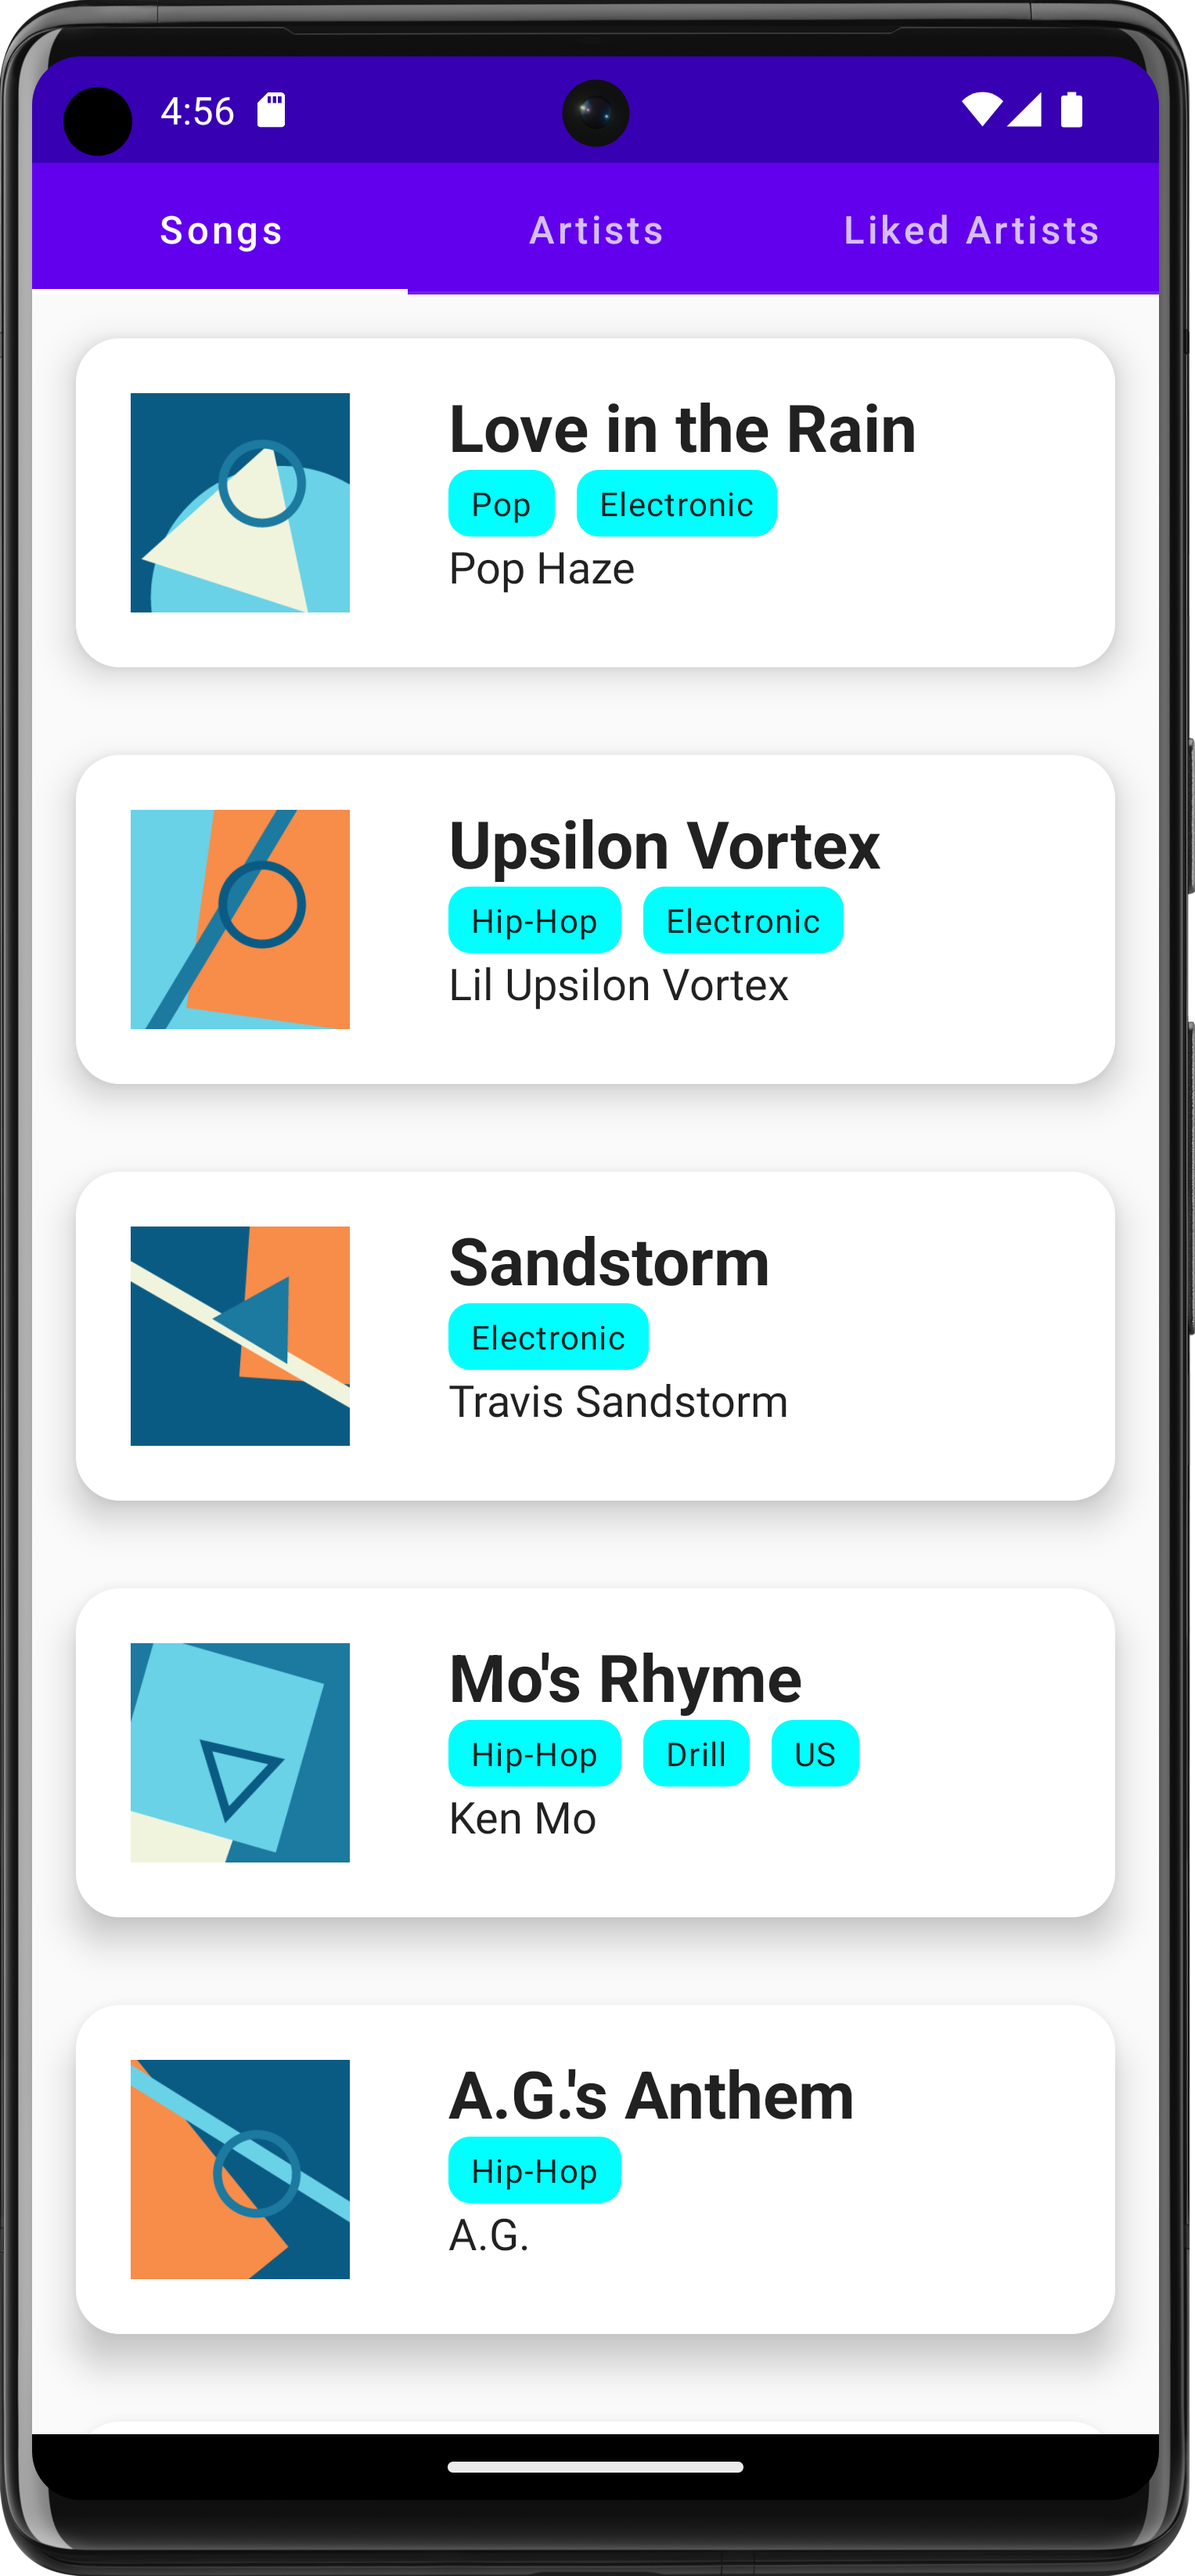
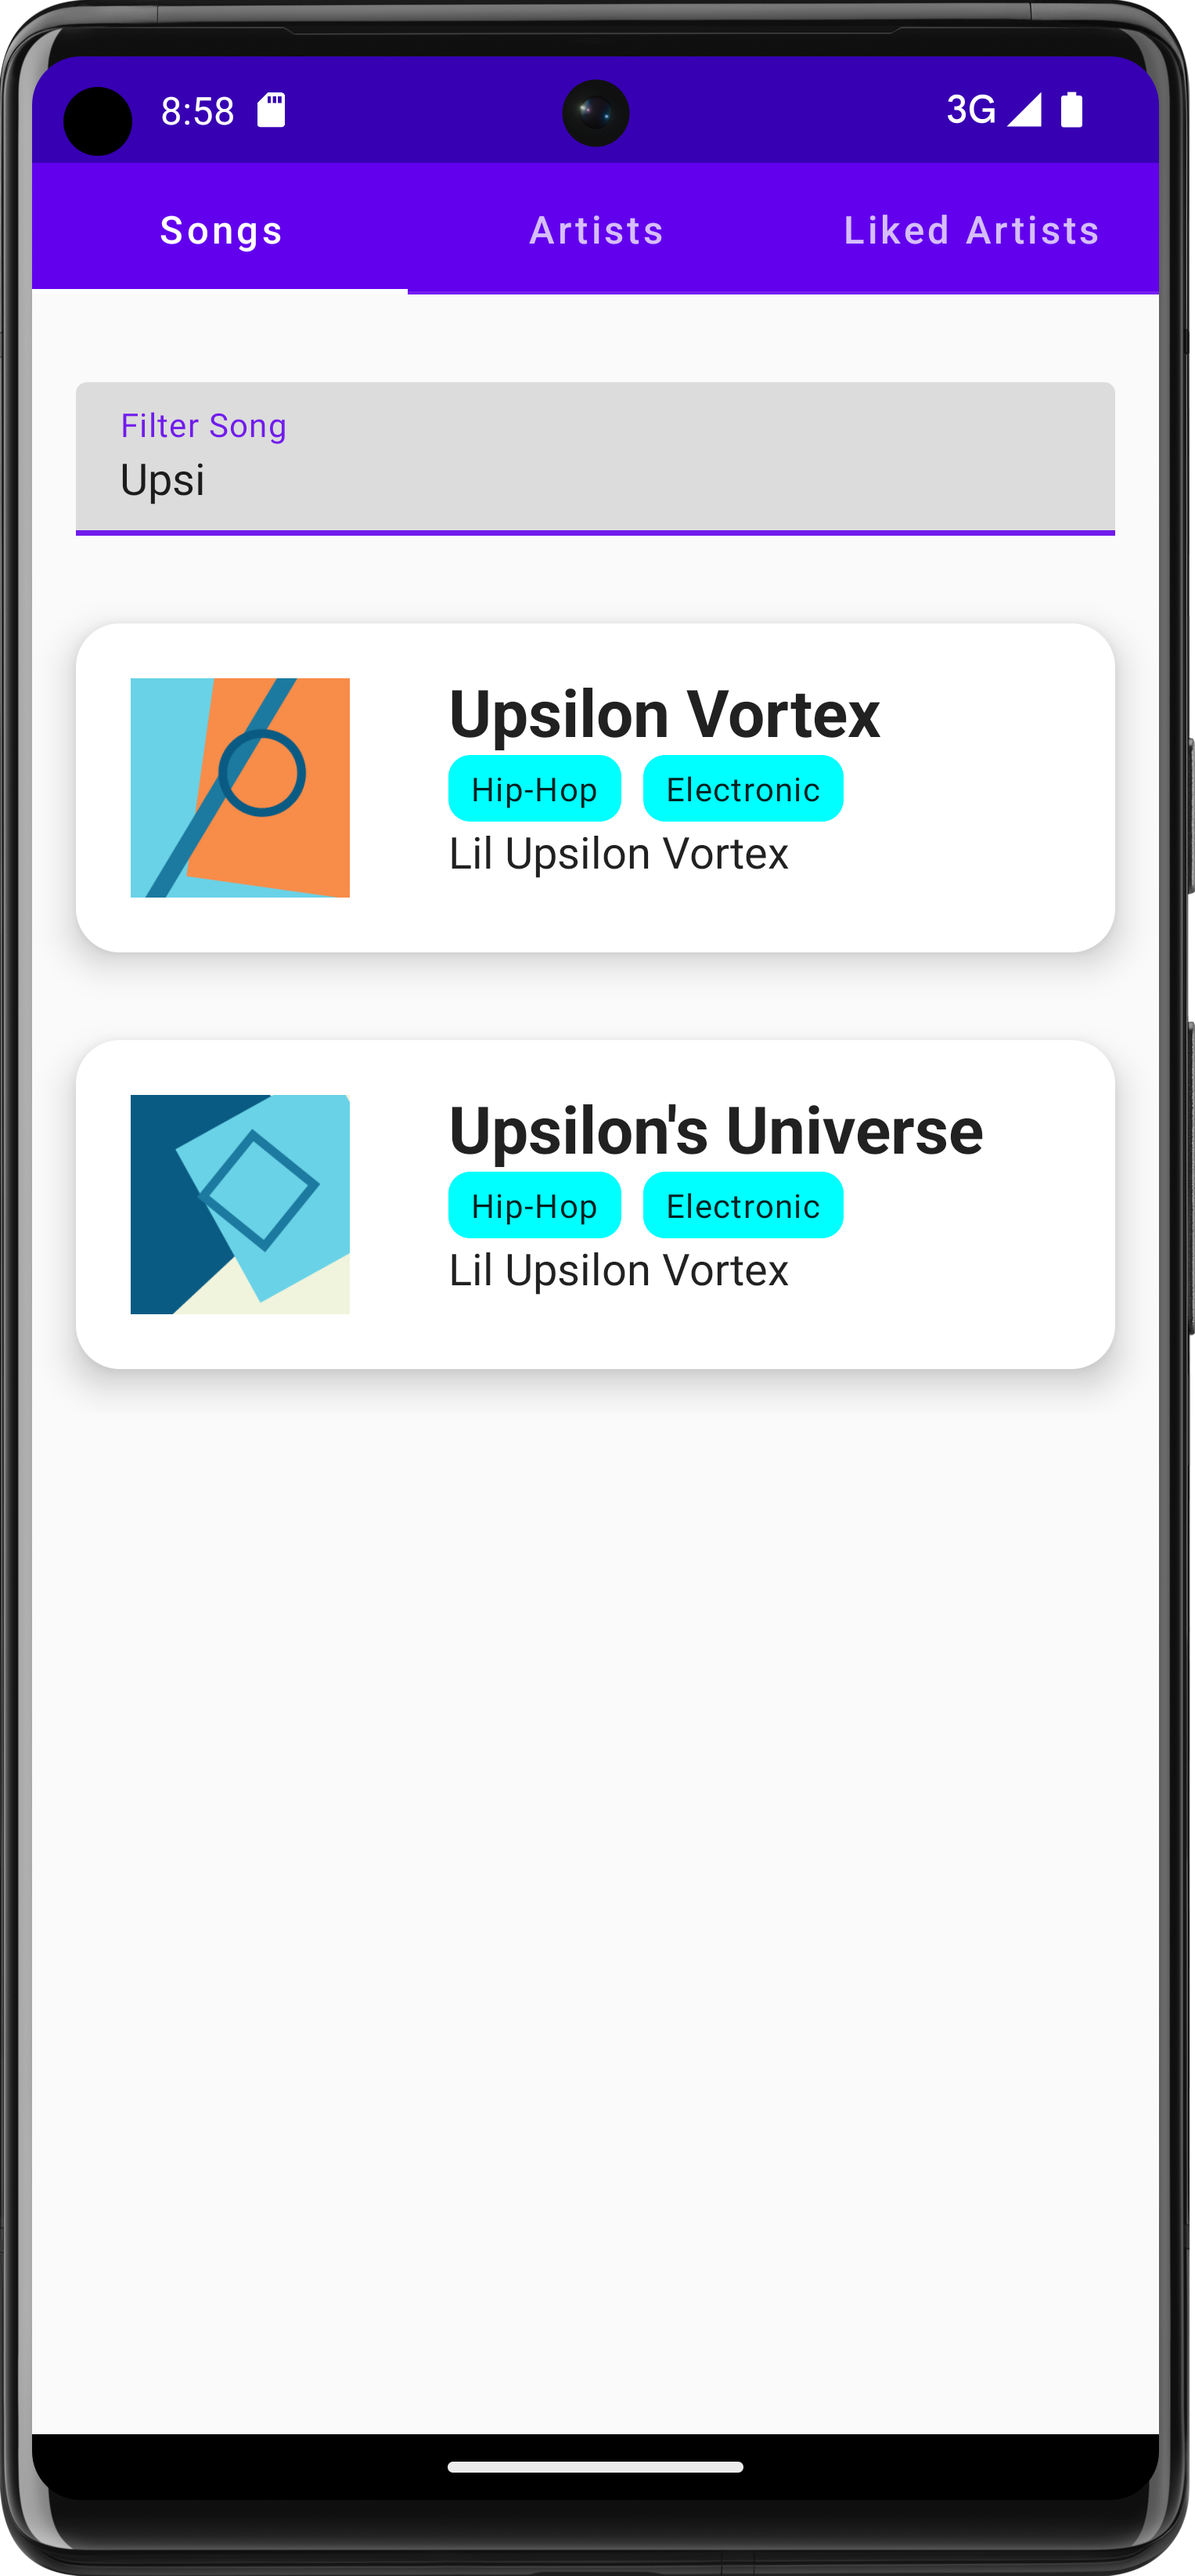
add search bar to songs

diff --git a/frontend/music/app/src/main/java/at/htl/remplbauer/music/ui/songs/SongListScreen.kt b/frontend/music/app/src/main/java/at/htl/remplbauer/music/ui/songs/SongListScreen.kt
@@ -8,12 +8,14 @@ import androidx.compose.foundation.shape.RoundedCornerShape
 import androidx.compose.material.Card
 import androidx.compose.material.MaterialTheme
 import androidx.compose.material.Text
-import androidx.compose.runtime.Composable
+import androidx.compose.material.TextField
+import androidx.compose.runtime.*
 import androidx.compose.ui.Modifier
 import androidx.compose.ui.graphics.Color
 import androidx.compose.ui.graphics.Color.Companion.Cyan
 import androidx.compose.ui.res.painterResource
 import androidx.compose.ui.text.font.FontWeight
+import androidx.compose.ui.text.toLowerCase
 import androidx.compose.ui.unit.dp
 import coil.compose.AsyncImage
 import at.htl.remplbauer.music.R
@@ -21,9 +23,24 @@ import at.htl.remplbauer.music.R
 @Composable
 fun SongListScreen(viewModel: SongsViewModel) {
     val songs = viewModel.songs
+    var filter by remember { mutableStateOf("") }
+
+    Column {
+        Spacer(modifier = Modifier.height(16.dp))
+        TextField(
+            value = filter,
+            onValueChange = {
+                filter = it
+            },
+            label = { Text("Filter Song") },
+            modifier = Modifier
+                .fillMaxWidth()
+                .padding(16.dp)
+        )
+    }
 
     LazyColumn {
-        items(songs) { song ->
+        items(songs.filter { it.title.lowercase().contains(filter.lowercase()) }) { song ->
             Card(
                 modifier = Modifier
                     .fillMaxWidth()

diff --git a/README.md b/README.md
@@ -14,6 +14,7 @@ This project is a music app that allows users to view and listen to songs by the
 
 - **Songs view**:
   The "Songs view" displays all songs in a visually appealing way by listing them on cards, with genres displayed as chips and album covers generated using [dicebear](https://www.dicebear.com/).
+  Moreover, the user filter for song titles using a search bar.
 
 - **Artist view**:
   The "Artist view" displays all artist, with extendable cards that display information about the artist and allows to like the artist.
